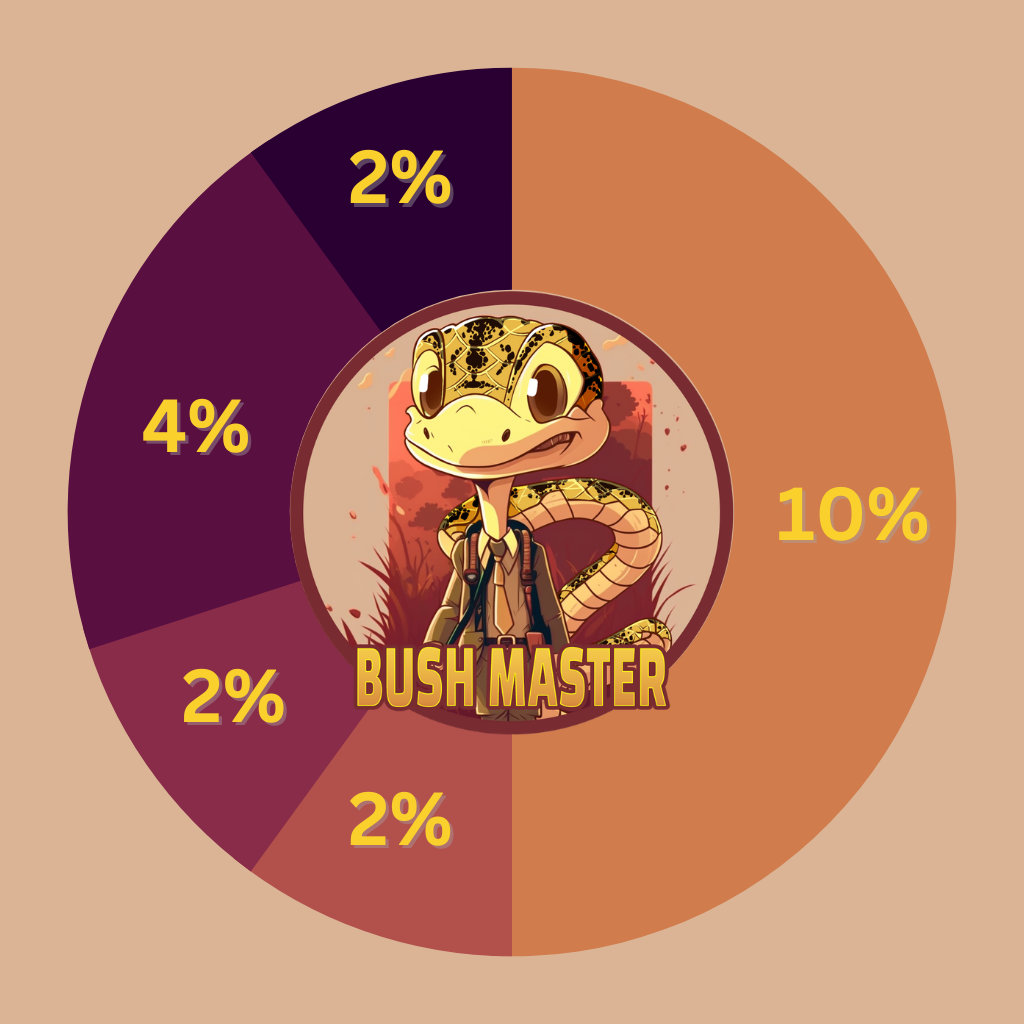
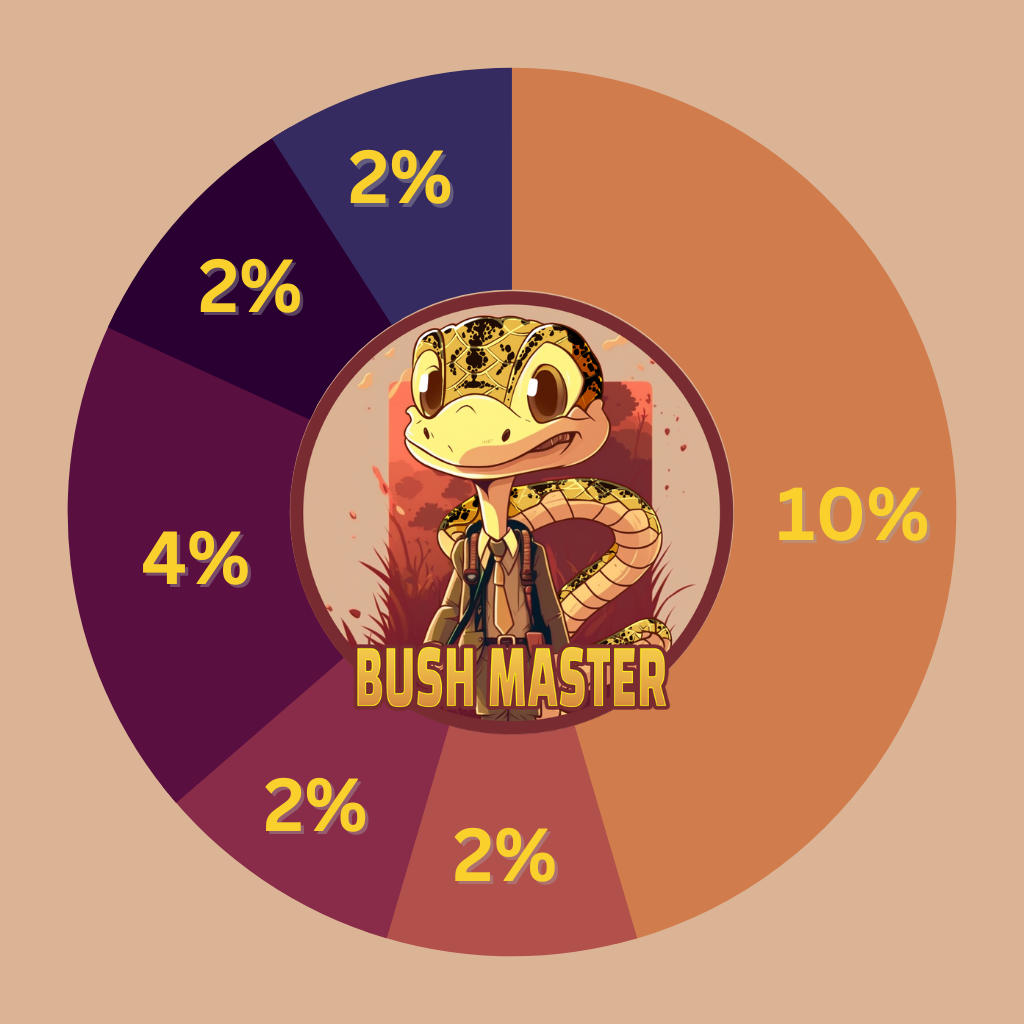
fix tokenomics

Changed region(s): [[0.0938, 0.0625, 0.5, 0.4688], [0.25, 0.6875, 0.625, 0.9375], [0.0938, 0.5, 0.3438, 0.7812]]

diff --git a/index.html b/index.html
@@ -1199,7 +1199,7 @@
                                                                   <li>
                                                                      <div class="item">
                                                                         <h3 class="fn__gradient_title"><span class="prefix"></span><span class="fn_cs_counter" data-separator="" data-from="0" data-to="2" data-speed="2000" data-decimals="1">0</span><span class="suffix">%</span></h3>
-                                                                        <p>Reflection</p>
+                                                                        <p>BUSD Rewards</p>
                                                                         
                                                                      </div>
                                                                   </li>
@@ -1222,6 +1222,16 @@
                                                                         
                                                                      </div>
                                                                   </li>
+                                                                  <li></li>
+                                                                  <li>
+                                                                     <div class="item">
+                                                                        
+                                                                        <h3 class="fn__gradient_title"><span class="prefix"></span><span class="fn_cs_counter" data-separator="" data-from="0" data-to="2" data-speed="2000" data-decimals="1">0</span><span class="suffix">%</span></h3> 
+                                                                          <p>of every transaction is redistributed to the holders for simply HODL-ing.</p>
+                                                                        
+                                                                     </div>
+                                                                  </li>
+                                                                  <li></li>
          
          
                                                                </ul>
@@ -1523,7 +1533,7 @@
                               </section>
 
 
-
+<!-- 
                               <div class="modal fade " id="exampleModal" tabindex="-1" aria-labelledby="exampleModalLabel" aria-hidden="true">
                                  <div class="modal-dialog modal-dialog-centered">
                                      <div class="modal-content">
@@ -1547,7 +1557,7 @@
                                          </div>
                                      </div>
                                  </div>
-                             </div>
+                             </div> -->
                              <!-- Modal Section End-->
 
                               <!-- <section class="elementor-section elementor-top-section elementor-element elementor-element-451057d0 elementor-section-full_width elementor-section-height-default elementor-section-height-default" data-id="451057d0" data-element_type="section">
